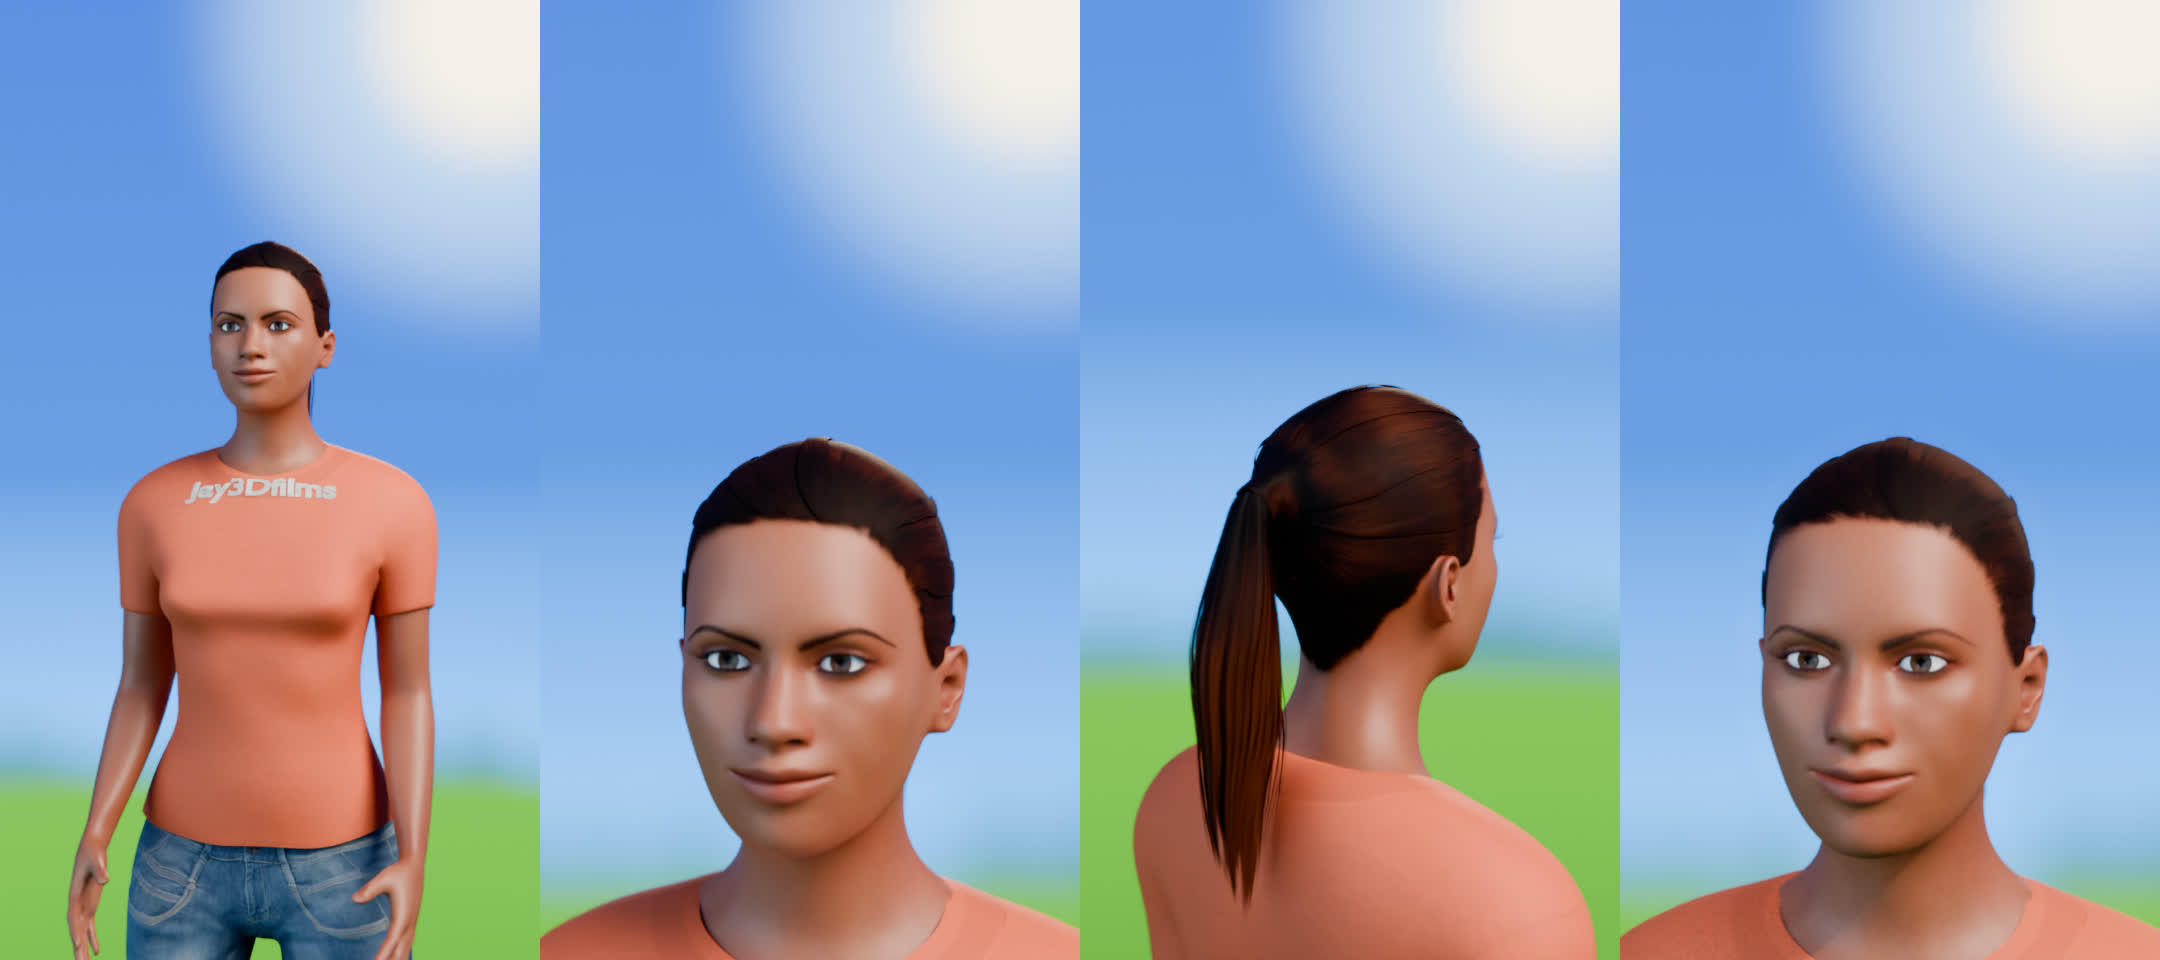
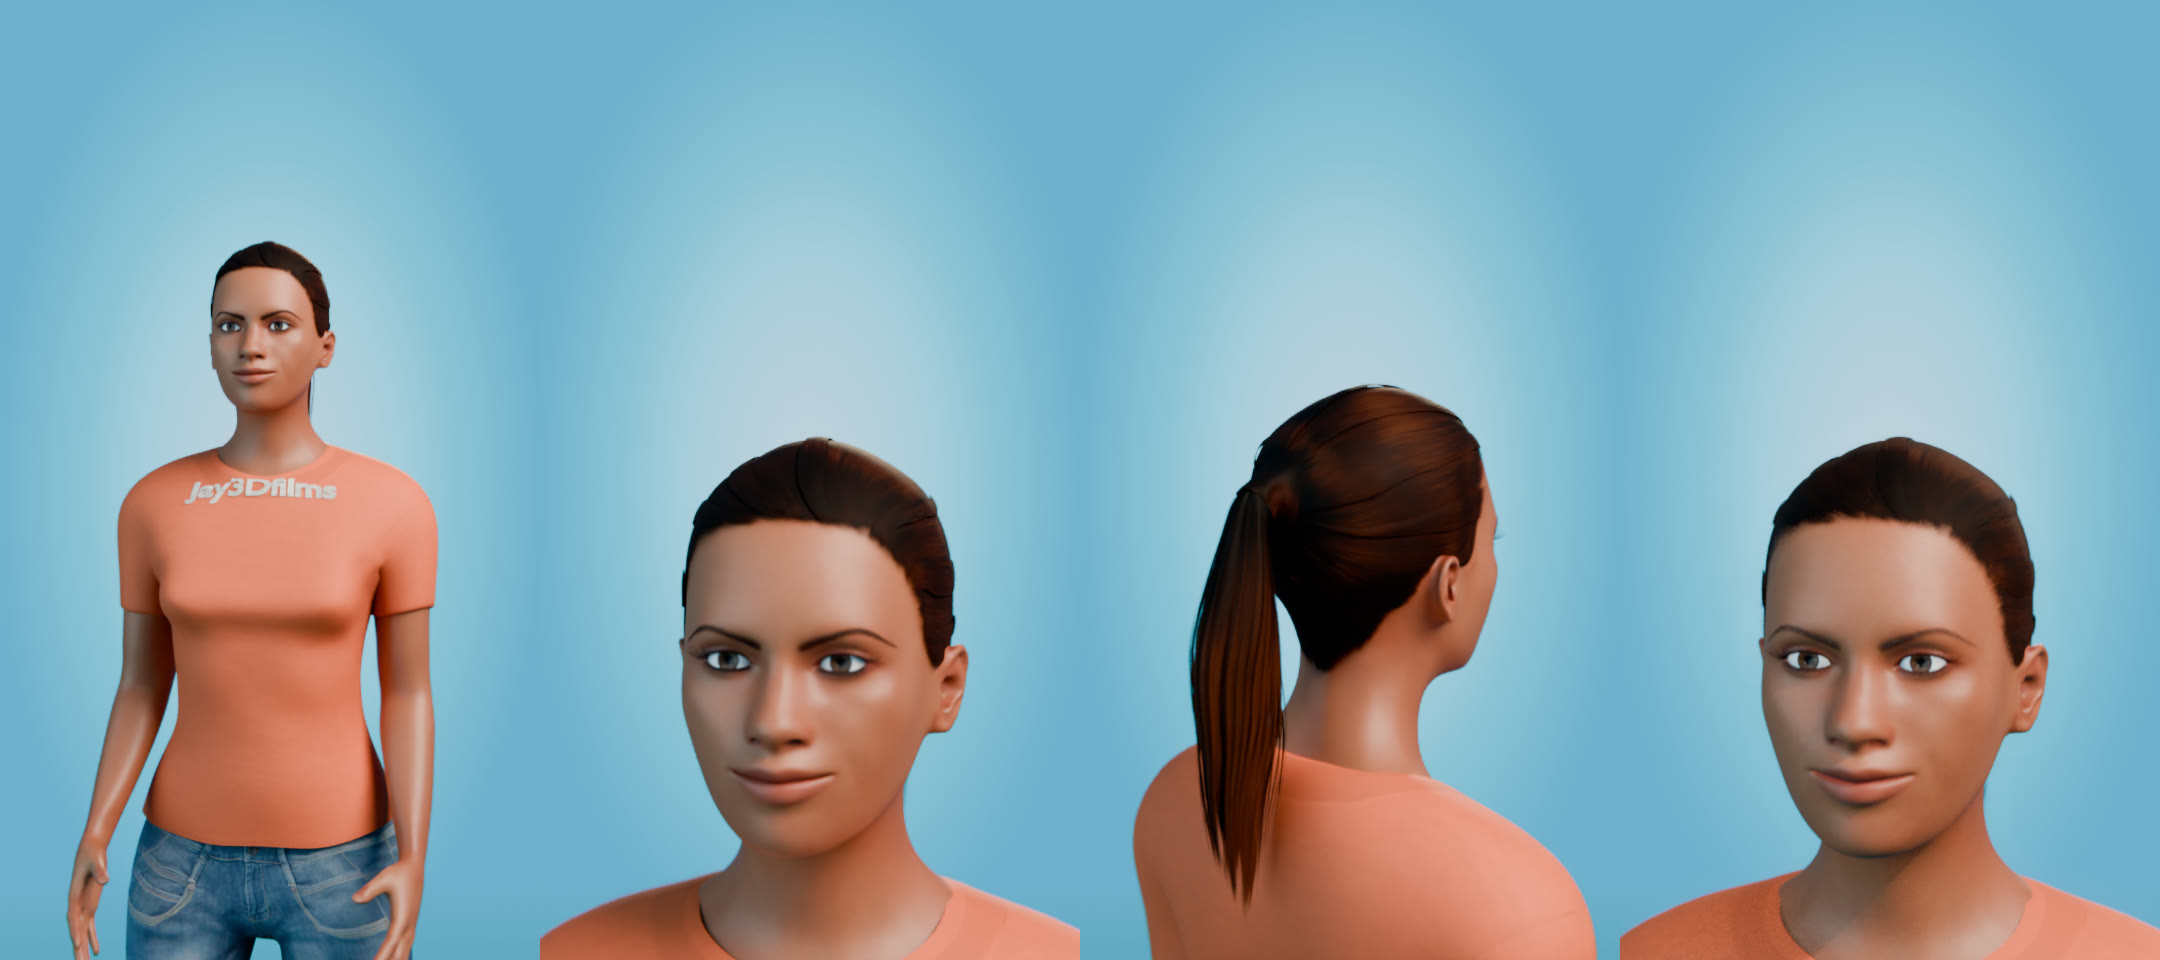
Video 2: studio blue backdrop matching the user's coin-toss reference
studio() in sky_set.py: teal-cyan edges fading to a pale blue-grey oval glow
behind the subject, a little deeper along the bottom, no horizon. Colours
measured from the reference and solved for AgX Punchy; the oval is fitted
to the 9:16 frame and sized to the lens. The outdoor sky stays available as
backdrop(). Docs and the step 1 preview updated.

Claude-Session: https://claude.ai/code/session_01DFS3vGfVHFge1YNPyvxr7a

diff --git a/videos/sneeze/scenes/sky_set.py b/videos/sneeze/scenes/sky_set.py
@@ -1,11 +1,11 @@
-"""His bright outdoor blur, like the user's screenshot (the slug on the razor blade): a
-saturated sky blue that gets lighter towards a soft, warm sun glow, and a blurred green field
-with a soft tree line along the bottom. It is built into the world, already soft as if out of
-focus, so it works from every camera angle and both engines (EEVEE and Cycles) show the same
-thing. The same colours light the scene softly (blue from above, green bounce from below),
-and lights() adds the studio key, sky-blue fill and warm rim that go with it.
+"""Backdrops for the sneeze video, built into the world so they work from every camera angle
+and both engines (EEVEE and Cycles) show the same thing, plus the matching light rig.
 
-The glow sits where the shot asks for it on screen (glow_dir), top right by default.
+studio(): the main look, his seamless studio blue (the user's coin-toss reference frame):
+teal-cyan at the edges, fading to a pale blue-grey glow behind the subject, no horizon.
+backdrop(): his bright outdoor blur (the user's first reference, the slug on the razor
+blade): saturated sky, soft sun glow, blurred green field. Kept for shots that need outdoors.
+lights() adds the soft studio key, a fill tinted with the backdrop's blue and a warm rim.
 """
 import math
 
@@ -26,14 +26,24 @@ HALO = (2.4, 6.6, 11.0)               # pale cyan-white around the sun (blue mix
 FIELD_FAR = (0.271, 1.51, 0.036)      # (131, 192, 84) sunlit field near the horizon
 FIELD_NEAR = (0.070, 0.508, 0.055)    # (62, 140, 42) greener towards the camera
 TREES = (0.132, 0.559, 0.205)         # (86, 146, 97) soft tree line, hazed by distance
+# studio blue, measured from the reference frame (radius in half frame heights from the glow)
+STUDIO_CENTRE = (1.09, 2.00, 2.67)    # (186, 203, 212) pale blue-grey glow behind the subject
+STUDIO_INNER = (0.25, 1.78, 2.52)     # (156, 198, 212)
+STUDIO_MID = (0.0057, 1.35, 2.01)     # (127, 188, 206)
+STUDIO_EDGE = (0.0014, 0.886, 1.59)   # (101, 172, 200) teal-cyan at the edges
+STUDIO_LOW = (0.022, 0.738, 1.09)     # (86, 163, 183) a little deeper at the bottom
+
+
+def _camera_axes(cam_loc, aim):
+    f = (Vector(aim) - Vector(cam_loc)).normalized()
+    r = f.cross(Vector((0, 0, 1))).normalized()
+    return f, r, r.cross(f)
 
 
 def view_dir(cam_loc, aim, lens, screen=(0.85, 0.95), aspect=9 / 16):
     """World direction that lands at a screen position (x right, y up, -1..1) for a camera at
     cam_loc looking at aim with this lens (vertical 9:16 frame, 36 mm sensor on the long side)."""
-    f = (Vector(aim) - Vector(cam_loc)).normalized()
-    r = f.cross(Vector((0, 0, 1))).normalized()
-    u = r.cross(f)
+    f, r, u = _camera_axes(cam_loc, aim)
     t = 18.0 / lens
     return (f + r * screen[0] * t * aspect + u * screen[1] * t).normalized()
 
@@ -81,6 +91,66 @@ def _mix(nt, fac, a, b):
     return m.outputs[2]
 
 
+def _finish(nt, col, camera_strength, light_strength):
+    """What the camera sees vs the softer light the same colours cast on the scene."""
+    out = nt.nodes.new("ShaderNodeOutputWorld")
+    cam_bg = _node(nt, "ShaderNodeBackground", Strength=camera_strength)
+    cam_bg.name = "Backdrop_Camera"
+    amb = _node(nt, "ShaderNodeBackground", Strength=light_strength)
+    nt.links.new(col, cam_bg.inputs["Color"])
+    nt.links.new(col, amb.inputs["Color"])
+    lp = nt.nodes.new("ShaderNodeLightPath")
+    mix = nt.nodes.new("ShaderNodeMixShader")
+    nt.links.new(lp.outputs["Is Camera Ray"], mix.inputs[0])
+    nt.links.new(amb.outputs[0], mix.inputs[1])
+    nt.links.new(cam_bg.outputs[0], mix.inputs[2])
+    nt.links.new(mix.outputs[0], out.inputs[0])
+
+
+def studio(cam_loc, aim, lens, centre=(0.0, 0.0), camera_strength=1.0, light_strength=0.25):
+    """His studio blue. The pale glow sits at a screen position (centre: x right, y up, -1..1)
+    for this camera, behind the subject, and is sized to the lens so it looks the same in wide
+    shots and close-ups; the frame's edges are teal-cyan, a little deeper at the bottom.
+    When the camera moves, the glow stays put in the world like a light on a real backdrop.
+    Returns the world; its "Backdrop_Camera" node's Strength is what the camera sees."""
+    w, nt = V._world()
+    tc = nt.nodes.new("ShaderNodeTexCoord")
+    nrm = nt.nodes.new("ShaderNodeVectorMath")
+    nrm.operation = "NORMALIZE"
+    nt.links.new(tc.outputs["Generated"], nrm.inputs[0])
+    d = nrm.outputs["Vector"]
+    t = 18.0 / lens
+    f, r, u = _camera_axes(cam_loc, aim)
+
+    def dot_with(vec):
+        n = nt.nodes.new("ShaderNodeVectorMath")
+        n.operation = "DOT_PRODUCT"
+        n.inputs[1].default_value = vec
+        nt.links.new(d, n.inputs[0])
+        return n.outputs["Value"]
+
+    # screen position of each view direction (x in half frame widths, y in half heights), so the
+    # glow is an oval that fits the 9:16 frame like his: teal at the side edges and corners
+    aspect = 9 / 16
+    depth = _math(nt, "MAXIMUM", dot_with(f), 0.05)
+    x = _math(nt, "SUBTRACT", _math(nt, "DIVIDE", _math(nt, "DIVIDE", dot_with(r), depth), t * aspect), centre[0])
+    y = _math(nt, "DIVIDE", _math(nt, "DIVIDE", dot_with(u), depth), t)
+    yc = _math(nt, "SUBTRACT", y, centre[1])
+    rho = _math(nt, "SQRT", _math(nt, "ADD", _math(nt, "MULTIPLY", x, x), _math(nt, "MULTIPLY", yc, yc)))
+    ramp = nt.nodes.new("ShaderNodeValToRGB")
+    els = ramp.color_ramp.elements
+    els[0].position, els[0].color = 0.0, (*STUDIO_CENTRE, 1)
+    els[1].position, els[1].color = 1.0, (*STUDIO_EDGE, 1)
+    for pos, col in ((0.38, STUDIO_INNER), (0.57, STUDIO_MID), (0.85, STUDIO_EDGE)):
+        e = els.new(pos)
+        e.color = (*col, 1)
+    nt.links.new(_map(nt, rho, 0.0, 1.2, smooth=False), ramp.inputs["Fac"])
+    low = _map(nt, y, -0.8, -1.05)                                # a little deeper along the bottom edge
+    col = _mix(nt, _math(nt, "MULTIPLY", low, 0.8), ramp.outputs["Color"], STUDIO_LOW)
+    _finish(nt, col, camera_strength, light_strength)
+    return w
+
+
 def backdrop(glow_dir=(0.45, 0.55, 0.7), horizon=-13.0, camera_strength=1.0, light_strength=0.22,
              glow=1.0, glow_size=None, lens=50.0, tree_seed=0.0):
     """The world. glow_dir: world direction of the sun glow (see view_dir); glow_size: radius
@@ -90,7 +160,6 @@ def backdrop(glow_dir=(0.45, 0.55, 0.7), horizon=-13.0, camera_strength=1.0, lig
     lens so it looks the same on screen in wide shots and close-ups.
     Returns the world; its "Backdrop_Camera" node's Strength is what the camera sees."""
     w, nt = V._world()
-    out = nt.nodes.new("ShaderNodeOutputWorld")
     tc = nt.nodes.new("ShaderNodeTexCoord")
     nrm = nt.nodes.new("ShaderNodeVectorMath")
     nrm.operation = "NORMALIZE"
@@ -148,18 +217,7 @@ def backdrop(glow_dir=(0.45, 0.55, 0.7), horizon=-13.0, camera_strength=1.0, lig
     trees = _mix(nt, 0.15, TREES, SKY_LOW)                        # haze
     land_col = _mix(nt, _map(nt, z, h0 - 0.02, h0 + 0.02), field_ramp.outputs["Color"], trees)
     col = _mix(nt, land, sky, land_col)
-
-    cam_bg = _node(nt, "ShaderNodeBackground", Strength=camera_strength)
-    cam_bg.name = "Backdrop_Camera"
-    amb = _node(nt, "ShaderNodeBackground", Strength=light_strength)
-    nt.links.new(col, cam_bg.inputs["Color"])
-    nt.links.new(col, amb.inputs["Color"])
-    lp = nt.nodes.new("ShaderNodeLightPath")
-    mix = nt.nodes.new("ShaderNodeMixShader")
-    nt.links.new(lp.outputs["Is Camera Ray"], mix.inputs[0])
-    nt.links.new(amb.outputs[0], mix.inputs[1])
-    nt.links.new(cam_bg.outputs[0], mix.inputs[2])
-    nt.links.new(mix.outputs[0], out.inputs[0])
+    _finish(nt, col, camera_strength, light_strength)
     return w
 
 
@@ -176,8 +234,8 @@ def _area(name, loc, target, size, power, color, col):
 def lights(subject, cam_loc, glow_dir, scale=1.0, key=1.0, fill=1.0, rim=1.0, col=None):
     """Soft studio light that matches the backdrop. subject: point the lights aim at;
     scale: roughly the subject size in meters (1 = head and shoulders at ~1-2 m).
-    Key: warm-white, high on the camera's right (the sun-glow side). Fill: sky blue, low on
-    the left. Rim: the warm sun itself, from the glow's direction, behind the subject."""
+    Key: warm-white, high on the camera's right. Fill: backdrop blue, low on the left.
+    Rim: a warm sun from glow_dir (behind the subject, e.g. view_dir's default top right)."""
     col = col or V.collection("LIGHTS")
     s = Vector(subject)
     to_cam = Vector(cam_loc) - s
@@ -194,7 +252,7 @@ def lights(subject, cam_loc, glow_dir, scale=1.0, key=1.0, fill=1.0, rim=1.0, co
     d = 2.4 * scale
     out = {
         "key": _area("Key_Light", around(48, 38, d), s, 1.8 * scale, 260 * key * scale ** 2, H("#FFF1DE"), col),
-        "fill": _area("Fill_Light", around(-60, 8, d), s, 2.6 * scale, 110 * fill * scale ** 2, H("#BFE3FA"), col),
+        "fill": _area("Fill_Light", around(-60, 8, d), s, 2.6 * scale, 110 * fill * scale ** 2, H("#B5E0EE"), col),
     }
     sun = bpy.data.lights.new("Sun_Rim", "SUN")
     sun.energy, sun.color, sun.angle = 3.2 * rim, H("#FFE7C2"), math.radians(6)

diff --git a/videos/sneeze/SCRIPT_AND_SHOTS.md b/videos/sneeze/SCRIPT_AND_SHOTS.md
@@ -13,9 +13,9 @@ Not the brain-freeze guy. A young woman in her early twenties, built with MPFB /
 
 ## Backdrop
 
-Like your screenshot: a saturated sky blue, lighter towards a soft warm sun glow at the top right, and a blurred green field along the bottom, with strong depth of field. It's a seamless curved backdrop, so it works from every angle. The character stands outdoors in front of it. The story starts with dandelion seeds, which explains the sunny field. The sun-glow side is also where the key light comes from.
+His studio blue, like your coin-toss screenshot: teal-cyan at the edges of the frame, fading smoothly to a pale blue-grey glow right behind the subject, a little deeper along the bottom. There's no horizon or floor line, and it looks the same from every camera angle. The colours were measured from your screenshot. The key light comes from the top right, the fill is tinted with the backdrop's blue, and a warm rim light separates her from it.
 
-Inside-the-body close-ups (airway walls, eardrum, throat) use the warm tissue backdrop from video 1 instead, so anatomy never stands in front of the sky.
+Inside-the-body close-ups (airway walls, eardrum, throat) use the warm tissue backdrop from video 1 instead, so anatomy never stands in front of the blue backdrop.
 
 ## Script (timed)
 
@@ -51,7 +51,7 @@ Frames are at 30 fps. Difficulty is for Claude driving Blender: **E** = easy (ob
 
 | # | Frames | Time (s) | VO / caption | Shot | Camera | Effects | Diff. |
 |---|---|---|---|---|---|---|---|
-| 1 | 1–36 | 0.0–1.2 | "You feel a giant" | Extreme close-up of a fluffy dandelion seed head against the blue backdrop (like your slug shot); a breeze lifts a few seeds off towards the lens | 100 mm, slow push-in, very shallow focus | Seeds drift, soft sun glow | E |
+| 1 | 1–36 | 0.0–1.2 | "You feel a giant" | Extreme close-up of a fluffy dandelion seed head against the blue backdrop (like the coin in your screenshot); a breeze lifts a few seeds off towards the lens | 100 mm, slow push-in, very shallow focus | Seeds drift | E |
 | 2 | 37–66 | 1.2–2.2 | "sneeze coming," | Her nose in extreme close-up: a seed lands on the tip, the nostrils twitch and flare | 100 mm, slow push to the nostril | Tiny nose wiggle (shape keys) | M |
 | 3 | 67–126 | 2.2–4.2 | "so you pinch your nose, shut your mouth," | Medium close-up: "ahh… ahh…" squint, the head tilts back, then her hand snaps up and pinches her nose and her lips press shut | 50 mm, slow orbit left | Ponytail swings | H |
 | 4 | 127–189 | 4.2–6.3 | "and hold it in." | Close-up: the sneeze hits inside, her cheeks balloon, her eyes bulge wide and her body jolts | 85 mm, push-in, a muffled jolt shake | Cheeks puff, face flushes slightly red | H |
@@ -69,10 +69,10 @@ Frames are at 30 fps. Difficulty is for Claude driving Blender: **E** = easy (ob
 | 16 | 733–780 | 24.4–26.0 | "in your eyes." | One vessel pops and a red blotch spreads across the white of the eye | Slight push, small shake on the pop | Spreading red stain | M |
 | 17 | 781–840 | 26.0–28.0 | "But in rare cases, it can even" | X-ray of her neck: the windpipe wall stretches thin and a weak spot glows red | 50 mm, slow orbit | Red warning glow, fine cracks | E–M |
 | 18 | 841–900 | 28.0–30.0 | "tear a hole in your throat." | Inside the throat (tissue backdrop): the wall rips open in a small tear and air bursts out | Push-in, shake on the rip | Red ripple ring, torn edges | E–M |
-| 19 | 901–966 | 30.0–32.2 | "So next time you feel one coming," | Back outside: another seed drifts onto her nose and her face scrunches up, "ahh…" | 50 mm, slow push-in | Seed drifts in | H |
+| 19 | 901–966 | 30.0–32.2 | "So next time you feel one coming," | Back to her on the blue backdrop: another seed drifts onto her nose and her face scrunches up, "ahh…" | 50 mm, slow push-in | Seed drifts in | H |
 | 20 | 967–1008 | 32.2–33.6 | "just let it out." | She lets go of her nose and tilts her head back to wind up (anticipation) | 35 mm, slight pull-back | Ponytail swings back | H |
 | 21 | 1009–1056 | 33.6–35.2 | *("Ahh… CHOO!")* | The giant sneeze in slow motion: her head snaps forward and the blast hits the dandelion in the foreground | 35 mm, crash zoom + shake | Spray of droplets, seeds explode off | H |
-| 22 | 1057–1110 | 35.2–37.0 | *(music button)* | Callback to shot 1: the now-bald dandelion stem in front; the seeds swirl away into the blue sky; she sniffs, relieved, blurred behind | Slow pull-back and tilt up | Seeds float off | M |
+| 22 | 1057–1110 | 35.2–37.0 | *(music button)* | Callback to shot 1: the now-bald dandelion stem in front; the seeds swirl away across the blue backdrop; she sniffs, relieved, blurred behind | Slow pull-back and tilt up | Seeds float off | M |
 
 **Callback:** the video opens on the full seed head that starts the sneeze and ends on the same dandelion, blown bald by the sneeze.
 
@@ -89,6 +89,6 @@ Frames are at 30 fps. Difficulty is for Claude driving Blender: **E** = easy (ob
 ## Production checklist
 
 - **Format:** 9:16, 1080×1920, 30 fps, 37.0 s = 1,110 frames.
-- **Look:** AgX Punchy, blue backdrop with a sun glow, shallow depth of field, motion blur, glare on glowing effects, slight chromatic aberration and grain.
+- **Look:** AgX Punchy, studio blue backdrop with a pale glow behind the subject, shallow depth of field, motion blur, glare on glowing effects, slight chromatic aberration and grain.
 - **Render:** EEVEE, 64 samples, one PNG sequence per shot, then the MP4.
 - **Afterwards (you):** the voiceover (`VOICEOVER.md`) and sound effects. Then I build the final edit to your recording with captions and the mix.

diff --git a/videos/sneeze/MASTER_PROMPT.md b/videos/sneeze/MASTER_PROMPT.md
@@ -14,9 +14,9 @@ PROJECT SETTINGS
 
 STYLE (match Zack D. Films)
 - Tell it in second person: "you" are the main character. Use one protagonist per video (same face, hair and outfit in every shot) and a new one for each video unless I say otherwise. Put my channel name, "Jay3Dfilms" (written exactly like that), on their T-shirt.
-- Backdrop: his bright outdoor blur, like my screenshot (the slug on the razor blade). A saturated sky blue that gets lighter towards a soft, warm sun glow at the top right, and a blurred green field along the bottom, with strong depth of field. Build it as a seamless curved backdrop so it works from every camera angle. Use it for the character shots, X-ray views of the body and isolated objects.
+- Backdrop: his seamless studio blue, like my coin-toss screenshot. Teal-cyan at the edges of the frame (about #61B5CD), fading smoothly to a pale blue-grey glow right behind the subject (about #B9CAD2), a little deeper along the bottom. No horizon, no floor line. It must look the same from every camera angle. Use it for the character shots, X-ray views of the body and isolated objects.
 - X-ray views: the skin turns see-through and the organs glow inside, with the blue backdrop still behind.
-- Close-ups inside the body (airways, eardrum, blood vessels, organs) sit inside the body: warm, dark, out-of-focus tissue with a few blurred vessels behind, never the blue sky (anatomy in front of sky reads as an object standing outdoors). Vessels and tubes curve, taper and branch; never a straight, upright pole. Never use an empty black void.
+- Close-ups inside the body (airways, eardrum, blood vessels, organs) sit inside the body: warm, dark, out-of-focus tissue with a few blurred vessels behind, never the blue backdrop (an airway or vessel in front of it reads as an object on display, not something inside you). Vessels and tubes curve, taper and branch; never a straight, upright pole. Never use an empty black void.
 - Bright, saturated, clean colours. Keep the subject warm-toned against the cool blue so it pops.
 - One clear subject per shot, filling the frame. Keep scenes simple and uncluttered.
 - Faces must read at phone size: push expressions past realistic (wide eyes with white around the iris, high brows, puffed cheeks, clear winces), the way his characters react. Shape-key values above 1.0 are fine.
@@ -38,7 +38,7 @@ MATERIALS
 - No pure black or pure white surfaces.
 
 LIGHTING
-- Backdrop scenes: soft, even studio light with gentle shadows. The key light comes from the sun-glow side (top right) so the light matches the backdrop, the fill is tinted with the backdrop's sky blue, and a rim light separates the subject from the background.
+- Backdrop scenes: soft, even studio light with gentle shadows. The key light comes from the top right, the fill is tinted with the backdrop's blue, and a warm rim light separates the subject from the background.
 - Full environments: Poly Haven HDRI (sunny sky) plus a warm key light and a rim light.
 - Inside-the-body close-ups: keep an HDRI for the light; the tissue backdrop replaces only what the camera sees.
 - Soft, realistic shadows. Light volumetric haze for depth where it fits.
@@ -73,4 +73,4 @@ AFTER EACH STEP
 THIS VIDEO
 Topic: What happens if you hold in a sneeze
 Script with timings: see SCRIPT_AND_SHOTS.md
-Extra notes: new character (not the brain-freeze one); blue backdrop like my screenshot.
+Extra notes: new character (not the brain-freeze one); studio blue backdrop like my coin-toss screenshot.
